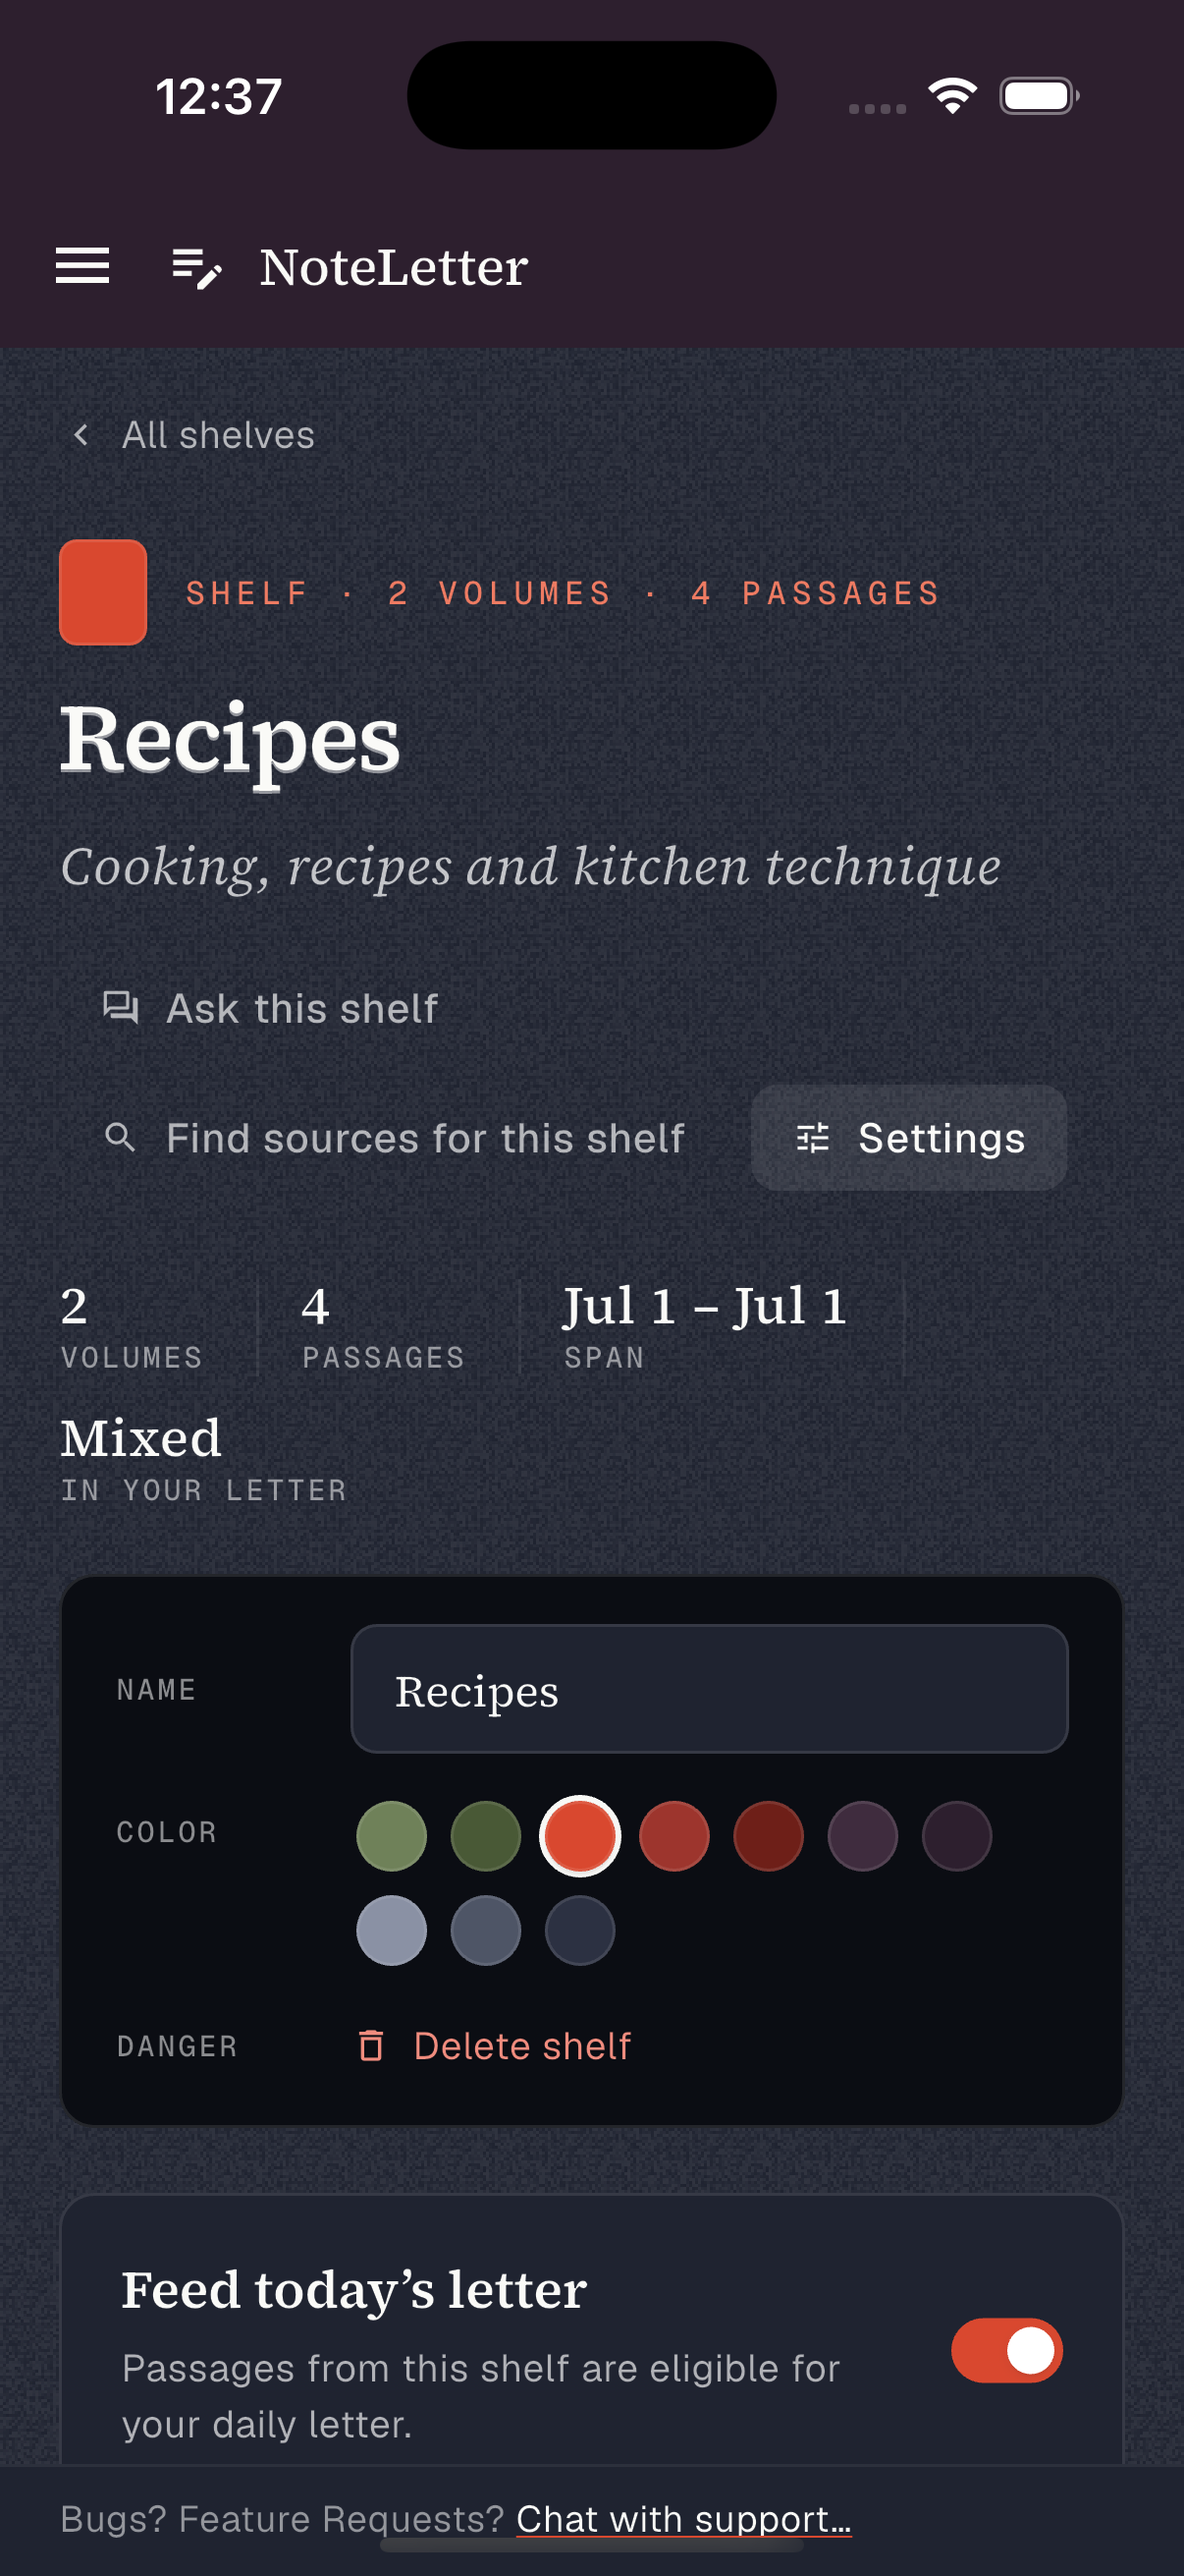
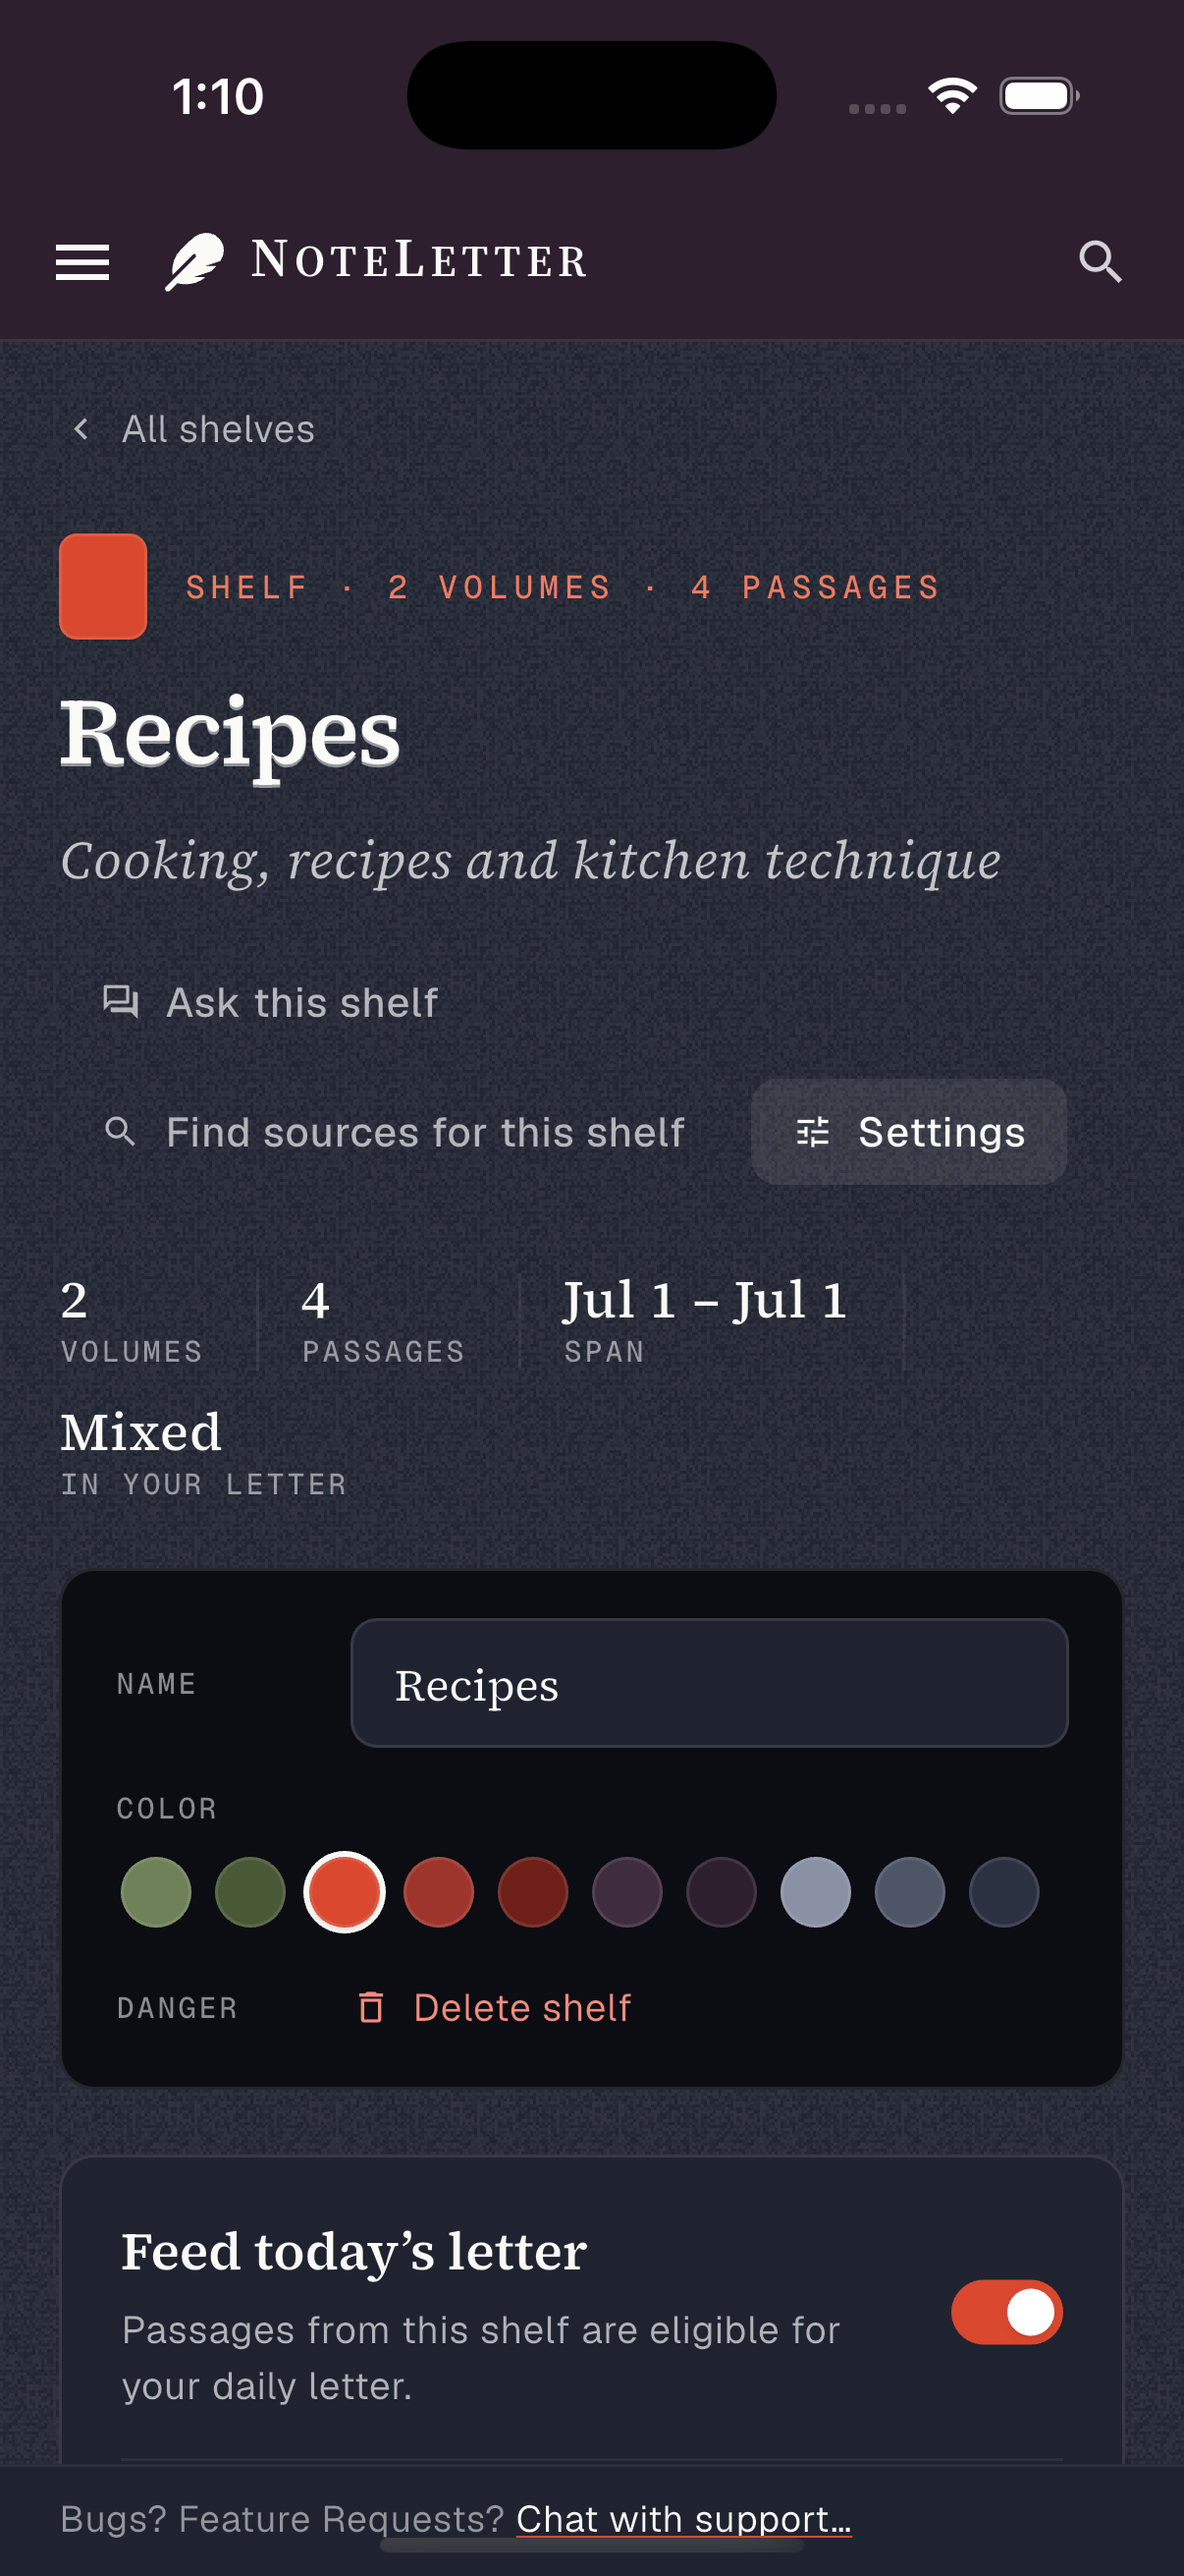
Shelf settings: the colour group wraps whole under its label at phone width (F-56, component-kit §6)
`.ss-row` is flex-wrap, and what wraps is decided by flex basis: a flex:1
control (name field, split body) always fits and shrinks; a content-sized one
(the swatches, 312px) drops whole under COLOR when it does not fit beside the
64px label. KitPanelRow gains `sizedByContent`, which lays label + control in a
Wrap (gap 16, run 8); the Color row uses it, so a phone draws one row of ten
where the kit used to wrap 7 + 3 inside the control column.

Folds: none
Gates: analyze clean · contract+kit 849 passed (pin excluded by policy) · umbrella harness PASS · pair shelf-color-picker, shelves light+dark refreshed
Pin stays 4.4.0.

Claude-Session: https://claude.ai/code/session_01WEYcyK1SsWKiesC6Pgdho6

diff --git a/lib/widgets/kit/kit_controls.dart b/lib/widgets/kit/kit_controls.dart
@@ -1648,36 +1648,59 @@ class KitPanel extends StatelessWidget {
 /// One row of a [KitPanel] (`.ss-row`): a fixed-width mono caps label naming
 /// the control beside it. The label column is fixed so the controls of a panel
 /// line up with each other rather than with their own labels.
+///
+/// `.ss-row` is `flex-wrap: wrap` (gap 16, row-gap 8), and which controls wrap
+/// is decided by their flex basis: a `flex: 1` control (the name field, the
+/// split body) has a zero basis, always fits, and shrinks beside the label; a
+/// control sized by its content (the swatches) wraps WHOLE onto its own line
+/// under the label when its natural width does not fit beside it — on a phone
+/// the ten swatches (312px) drop under COLOR as one row of ten instead of
+/// wrapping 7 + 3 inside the column (F-56). [sizedByContent] is that basis.
 class KitPanelRow extends StatelessWidget {
   final String label;
   final Widget child;
 
-  /// A row whose control is taller than its label (a colour row that wraps, a
-  /// split proposal) aligns to the top instead of the centre.
+  /// A row whose control is taller than its label (a split proposal) aligns
+  /// to the top instead of the centre.
   final bool alignTop;
+
+  /// The control is sized by its content (no `flex: 1`), so the row wraps it
+  /// whole under the label when it does not fit beside it.
+  final bool sizedByContent;
 
   const KitPanelRow({
     super.key,
     required this.label,
     required this.child,
     this.alignTop = false,
+    this.sizedByContent = false,
   });
 
   static const double _labelWidth = 64;
 
   @override
   Widget build(BuildContext context) {
+    final labelBox = SizedBox(
+      width: _labelWidth,
+      child: Padding(
+        padding: EdgeInsets.only(top: alignTop ? 6 : 0),
+        child: KitControlLabel(label),
+      ),
+    );
+    if (sizedByContent) {
+      return Wrap(
+        spacing: AppSpacing.s4,
+        runSpacing: 8,
+        crossAxisAlignment:
+            alignTop ? WrapCrossAlignment.start : WrapCrossAlignment.center,
+        children: [labelBox, child],
+      );
+    }
     return Row(
       crossAxisAlignment:
           alignTop ? CrossAxisAlignment.start : CrossAxisAlignment.center,
       children: [
-        SizedBox(
-          width: _labelWidth,
-          child: Padding(
-            padding: EdgeInsets.only(top: alignTop ? 6 : 0),
-            child: KitControlLabel(label),
-          ),
-        ),
+        labelBox,
         const SizedBox(width: AppSpacing.s4),
         Expanded(child: child),
       ],

diff --git a/test/kit/panel_row_test.dart b/test/kit/panel_row_test.dart
@@ -1,0 +1,61 @@
+// F-56 — `.ss-row` is flex-wrap: a control sized by its content wraps WHOLE
+// under its label when it does not fit beside it; a `flex: 1` control never
+// wraps. On a phone the ten swatches (312px) drop under COLOR as one row of
+// ten — the kit used to wrap them 7 + 3 inside the control column.
+import 'package:flutter/material.dart';
+import 'package:flutter_test/flutter_test.dart';
+
+import 'package:flutter_app/theme/app_theme.dart';
+import 'package:flutter_app/widgets/kit/kit.dart';
+
+void main() {
+  const control = Key('control');
+  const swatches = SizedBox(key: control, width: 312, height: 28);
+
+  Future<void> pumpAt(WidgetTester tester, double width, Widget row) async {
+    await tester.pumpWidget(MaterialApp(
+      theme: AppTheme.light,
+      home: Scaffold(
+        body: Align(
+          alignment: Alignment.topLeft,
+          child: SizedBox(width: width, child: row),
+        ),
+      ),
+    ));
+  }
+
+  Rect labelRect(WidgetTester tester) =>
+      tester.getRect(find.byType(KitControlLabel));
+
+  testWidgets('a content-sized control that does not fit drops under the label',
+      (tester) async {
+    // 350 - 64 label - 16 gap = 270 < 312.
+    await pumpAt(tester, 350,
+        const KitPanelRow(label: 'Color', sizedByContent: true, child: swatches));
+    final c = tester.getRect(find.byKey(control));
+    expect(c.left, 0, reason: 'the control starts at the row edge, not the column');
+    expect(c.top, greaterThanOrEqualTo(labelRect(tester).bottom + 8));
+    expect(c.width, 312, reason: 'wrapped whole — one row, its own width');
+  });
+
+  testWidgets('a content-sized control that fits stays beside the label',
+      (tester) async {
+    await pumpAt(tester, 600,
+        const KitPanelRow(label: 'Color', sizedByContent: true, child: swatches));
+    final c = tester.getRect(find.byKey(control));
+    expect(c.left, 64 + 16);
+    expect(c.top, lessThan(labelRect(tester).bottom));
+  });
+
+  testWidgets('a flex control never wraps — it shrinks beside the label',
+      (tester) async {
+    await pumpAt(
+        tester,
+        350,
+        const KitPanelRow(
+            label: 'Name', child: SizedBox(key: control, height: 28)));
+    final c = tester.getRect(find.byKey(control));
+    expect(c.left, 64 + 16);
+    expect(c.width, 350 - 64 - 16);
+  });
+}

diff --git a/lib/pages/tags/shelf_page.dart b/lib/pages/tags/shelf_page.dart
@@ -470,7 +470,7 @@ class _ShelfPageState extends State<ShelfPage> {
         ),
         KitPanelRow(
           label: 'Color',
-          alignTop: true,
+          sizedByContent: true,
           child: Column(
             crossAxisAlignment: CrossAxisAlignment.start,
             children: [

diff --git a/QUEUE.md b/QUEUE.md
@@ -1022,7 +1022,7 @@ a new obligation on a finished screen is a new item.
 - notes: The 2026-09-25 re-shoot beside the web phone frame (web frame 2026-09-18). (1) On the seed's Quarterly Tax Summary the manuscript header says `2 passages · 12 words` where web says `9 words`: web counts `htmlWords(c.html)` (ManuscriptPanel.jsx:521/801/858), this client `_wordCount(c.text)` (manuscript_panel.dart:311/524/585) — and the same count drives the dwell timer (`dwellFor(wordsIn(c.text))`, :485, vs web :521), so the read-tracking dwell differs too, not only the label. Decide the unit from the reference and port it, with a test on a passage whose text and html disagree. (2) The table passage renders as `QuarterInvoice total` / `Q2 $1,200` — cells run together with no separator — where web draws a ruled table; the image passage draws its caption as body text. (3) The reader frame lacks web's `Treat as…` action and the `LISTEN —` stat; the manuscript frame's tab indicator stays on Summary while the manuscript panel is in view. Composition of the panel itself (drop cap, `.ms-chunk-head`) is F-43's.
 
 ## F-56 · Shelf settings panel — the colour group drops whole under its label at phone width
-- status: open
+- status: done 2026-09-25
 - screen: shelf-color-picker
 - route: /shelves/seed-tag-recipes
 - spec: spec/screens/library.md; spec/component-kit.md §6
